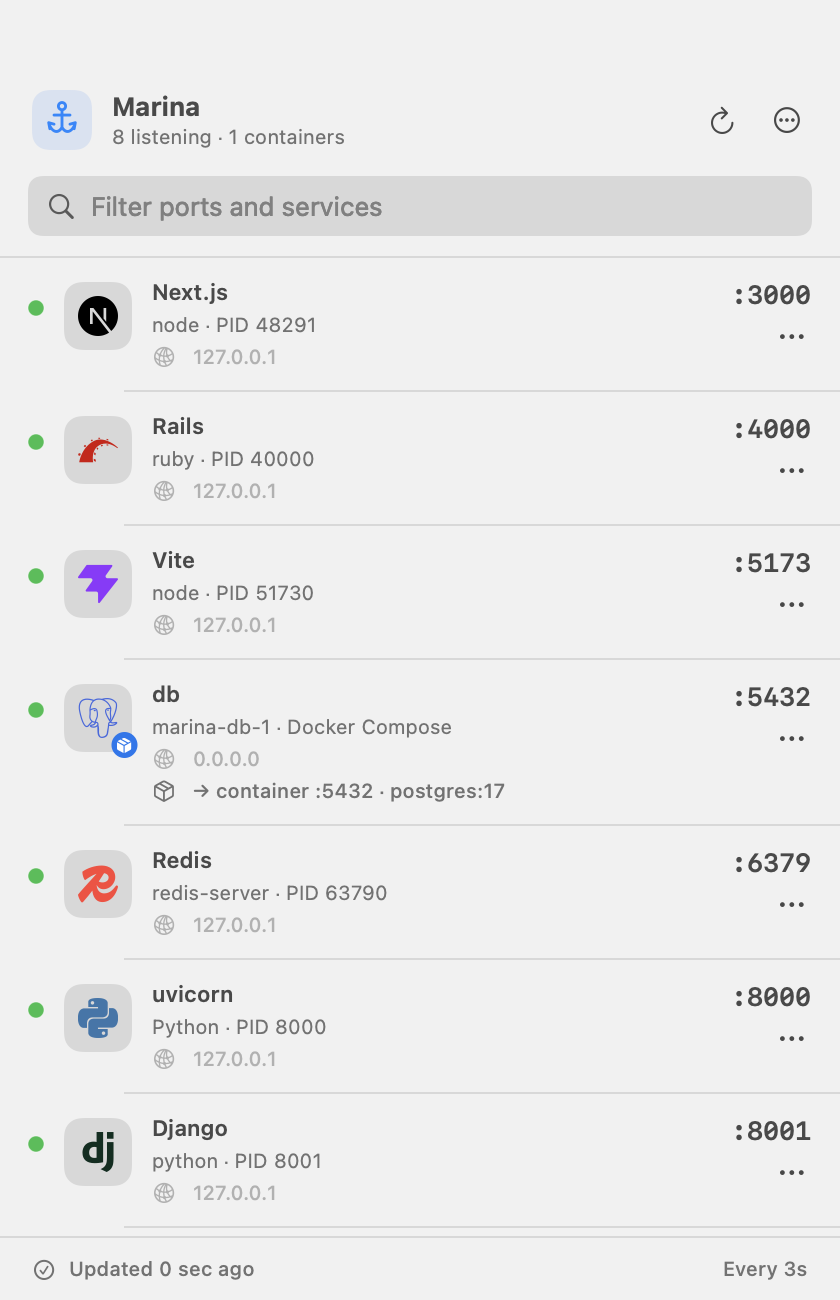
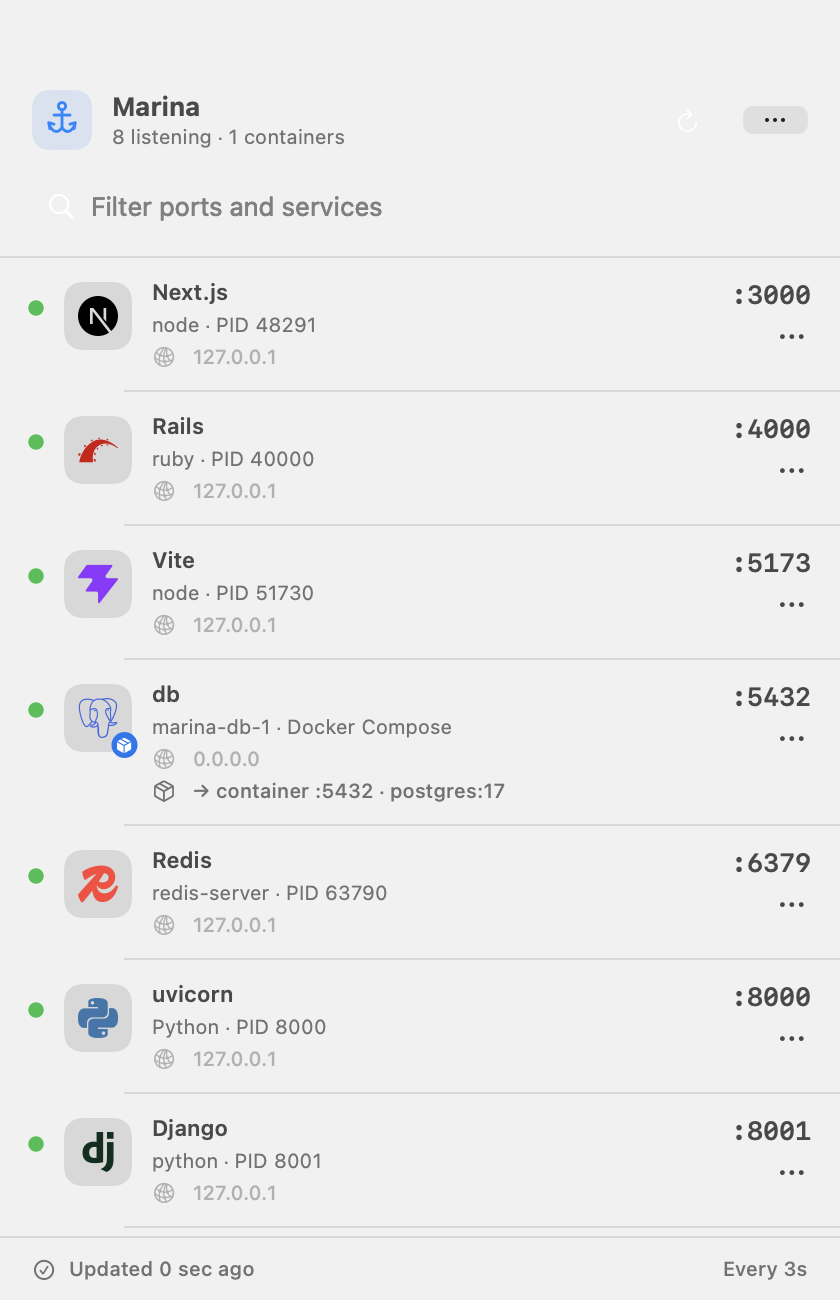
feat: 操作階層を明確にするためのLiquid Glass対応

Changed region(s): [[0.031, 0.1231, 0.9905, 0.1846]]

diff --git a/Marina/Features/Ports/PortListView.swift b/Marina/Features/Ports/PortListView.swift
@@ -40,7 +40,18 @@ struct PortListView: View {
         }
     }
 
+    @ViewBuilder
     private var portList: some View {
+        if #available(macOS 26.0, *) {
+            GlassEffectContainer(spacing: 12) {
+                portListContent
+            }
+        } else {
+            portListContent
+        }
+    }
+
+    private var portListContent: some View {
         VStack(spacing: 0) {
             header
             searchField
@@ -93,49 +104,88 @@ struct PortListView: View {
                     .contentTransition(.numericText())
             }
             Spacer()
-            Button {
-                Task { await viewModel.refresh() }
-            } label: {
-                Image(systemName: "arrow.clockwise")
-                    .frame(width: 24, height: 24)
-            }
-            .buttonStyle(.plain)
-            .disabled(viewModel.isRefreshing)
-            .keyboardShortcut("r", modifiers: .command)
-            .help("Refresh ports (⌘R)")
-            .accessibilityLabel(viewModel.isRefreshing ? "Refreshing ports" : "Refresh ports")
-
-            Menu {
-                Button {
-                    showSettings()
-                } label: {
-                    Label("Settings…", systemImage: "gearshape")
-                }
-                .keyboardShortcut(",", modifiers: .command)
-
-                Divider()
-
-                Button(role: .destructive) {
-                    NSApplication.shared.terminate(nil)
-                } label: {
-                    Label("Quit Marina", systemImage: "power")
-                }
-                .keyboardShortcut("q", modifiers: .command)
-            } label: {
-                Image(systemName: "ellipsis.circle")
-                    .frame(width: 24, height: 24)
-            }
-            .menuStyle(.borderlessButton)
-            .menuIndicator(.hidden)
-            .fixedSize()
-            .help("Marina menu")
-            .accessibilityLabel("Marina menu")
+            headerActions
         }
         .padding(.horizontal, 16)
         .padding(.vertical, 13)
     }
 
+    @ViewBuilder
+    private var headerActions: some View {
+        if #available(macOS 26.0, *) {
+            HStack(spacing: 6) {
+                refreshButton
+                marinaMenu.menuStyle(.button)
+            }
+            .buttonStyle(.glass)
+            .controlSize(.small)
+        } else {
+            HStack(spacing: 10) {
+                refreshButton.buttonStyle(.plain)
+                marinaMenu.menuStyle(.borderlessButton)
+            }
+        }
+    }
+
+    private var refreshButton: some View {
+        Button {
+            Task { await viewModel.refresh() }
+        } label: {
+            Image(systemName: "arrow.clockwise")
+                .frame(width: 24, height: 24)
+        }
+        .disabled(viewModel.isRefreshing)
+        .keyboardShortcut("r", modifiers: .command)
+        .help("Refresh ports (⌘R)")
+        .accessibilityLabel(viewModel.isRefreshing ? "Refreshing ports" : "Refresh ports")
+    }
+
+    private var marinaMenu: some View {
+        Menu {
+            Button {
+                showSettings()
+            } label: {
+                Label("Settings…", systemImage: "gearshape")
+            }
+            .keyboardShortcut(",", modifiers: .command)
+
+            Divider()
+
+            Button(role: .destructive) {
+                NSApplication.shared.terminate(nil)
+            } label: {
+                Label("Quit Marina", systemImage: "power")
+            }
+            .keyboardShortcut("q", modifiers: .command)
+        } label: {
+            Image(systemName: "ellipsis")
+                .frame(width: 24, height: 24)
+        }
+        .menuIndicator(.hidden)
+        .fixedSize()
+        .help("Marina menu")
+        .accessibilityLabel("Marina menu")
+    }
+
+    @ViewBuilder
     private var searchField: some View {
+        if #available(macOS 26.0, *) {
+            searchFieldContent
+                .glassEffect(
+                    .regular,
+                    in: RoundedRectangle(cornerRadius: 9, style: .continuous)
+                )
+                .padding(.horizontal, 14)
+                .padding(.bottom, 10)
+        } else {
+            searchFieldContent
+                .background(.quaternary, in: RoundedRectangle(cornerRadius: 7, style: .continuous))
+                .padding(.horizontal, 14)
+                .padding(.bottom, 10)
+        }
+    }
+
+    private var searchFieldContent: some View {
         HStack(spacing: 7) {
             Image(systemName: "magnifyingglass")
                 .foregroundStyle(.secondary)
@@ -160,9 +210,6 @@ struct PortListView: View {
         }
         .padding(.horizontal, 9)
         .padding(.vertical, 7)
-        .background(.quaternary, in: RoundedRectangle(cornerRadius: 7, style: .continuous))
-        .padding(.horizontal, 14)
-        .padding(.bottom, 10)
     }
 
     private var portCountSummary: String {
